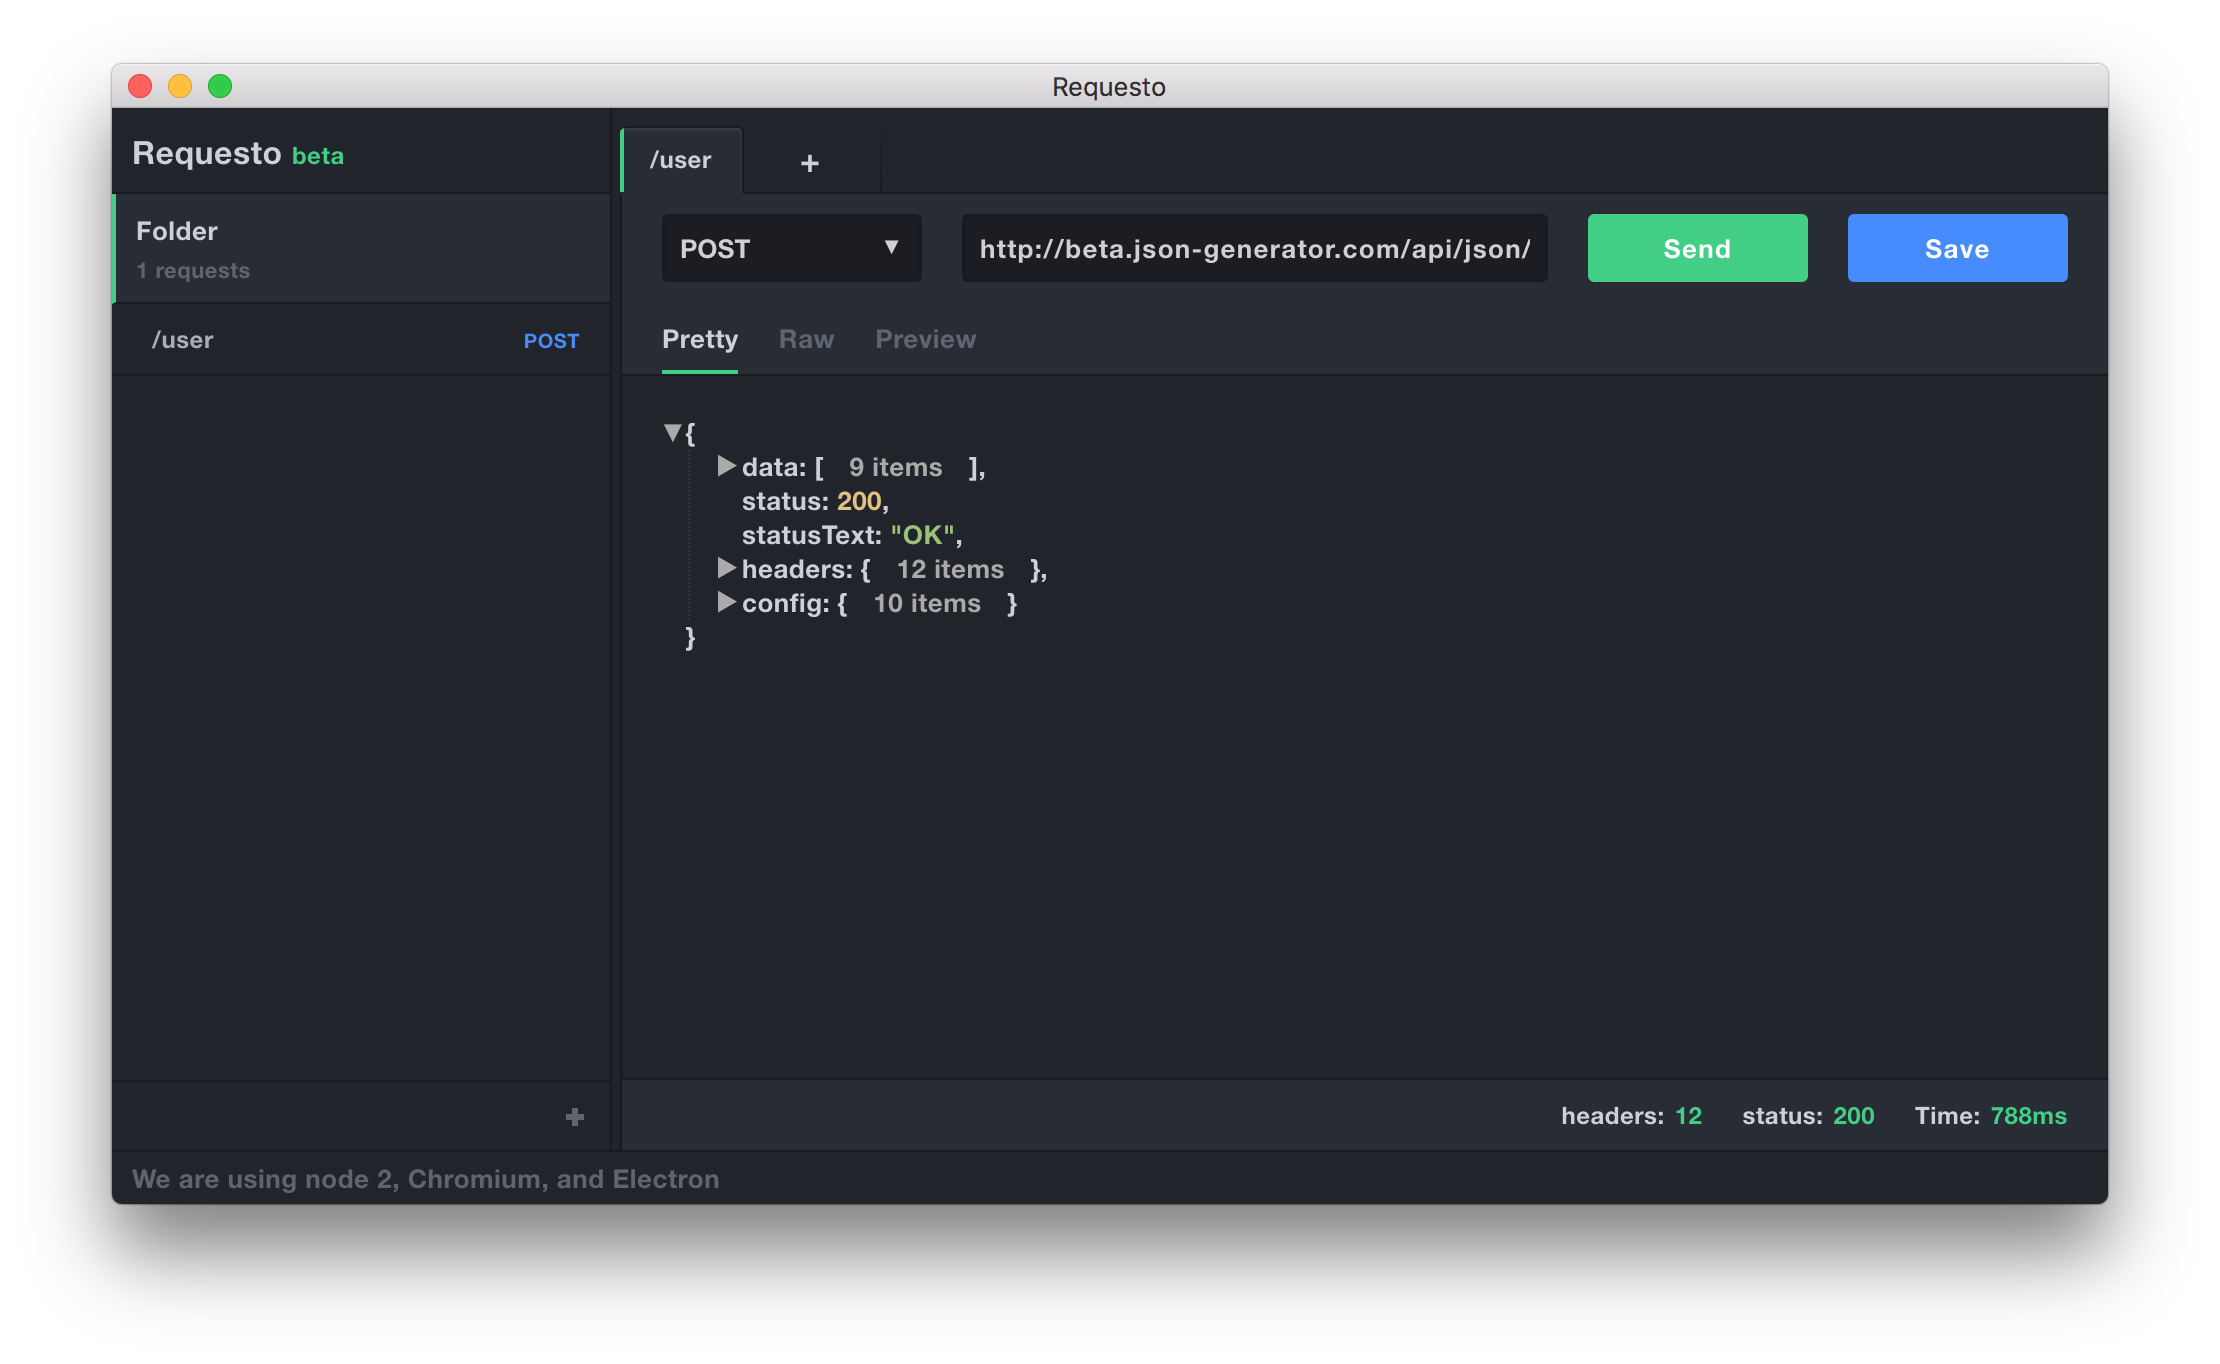
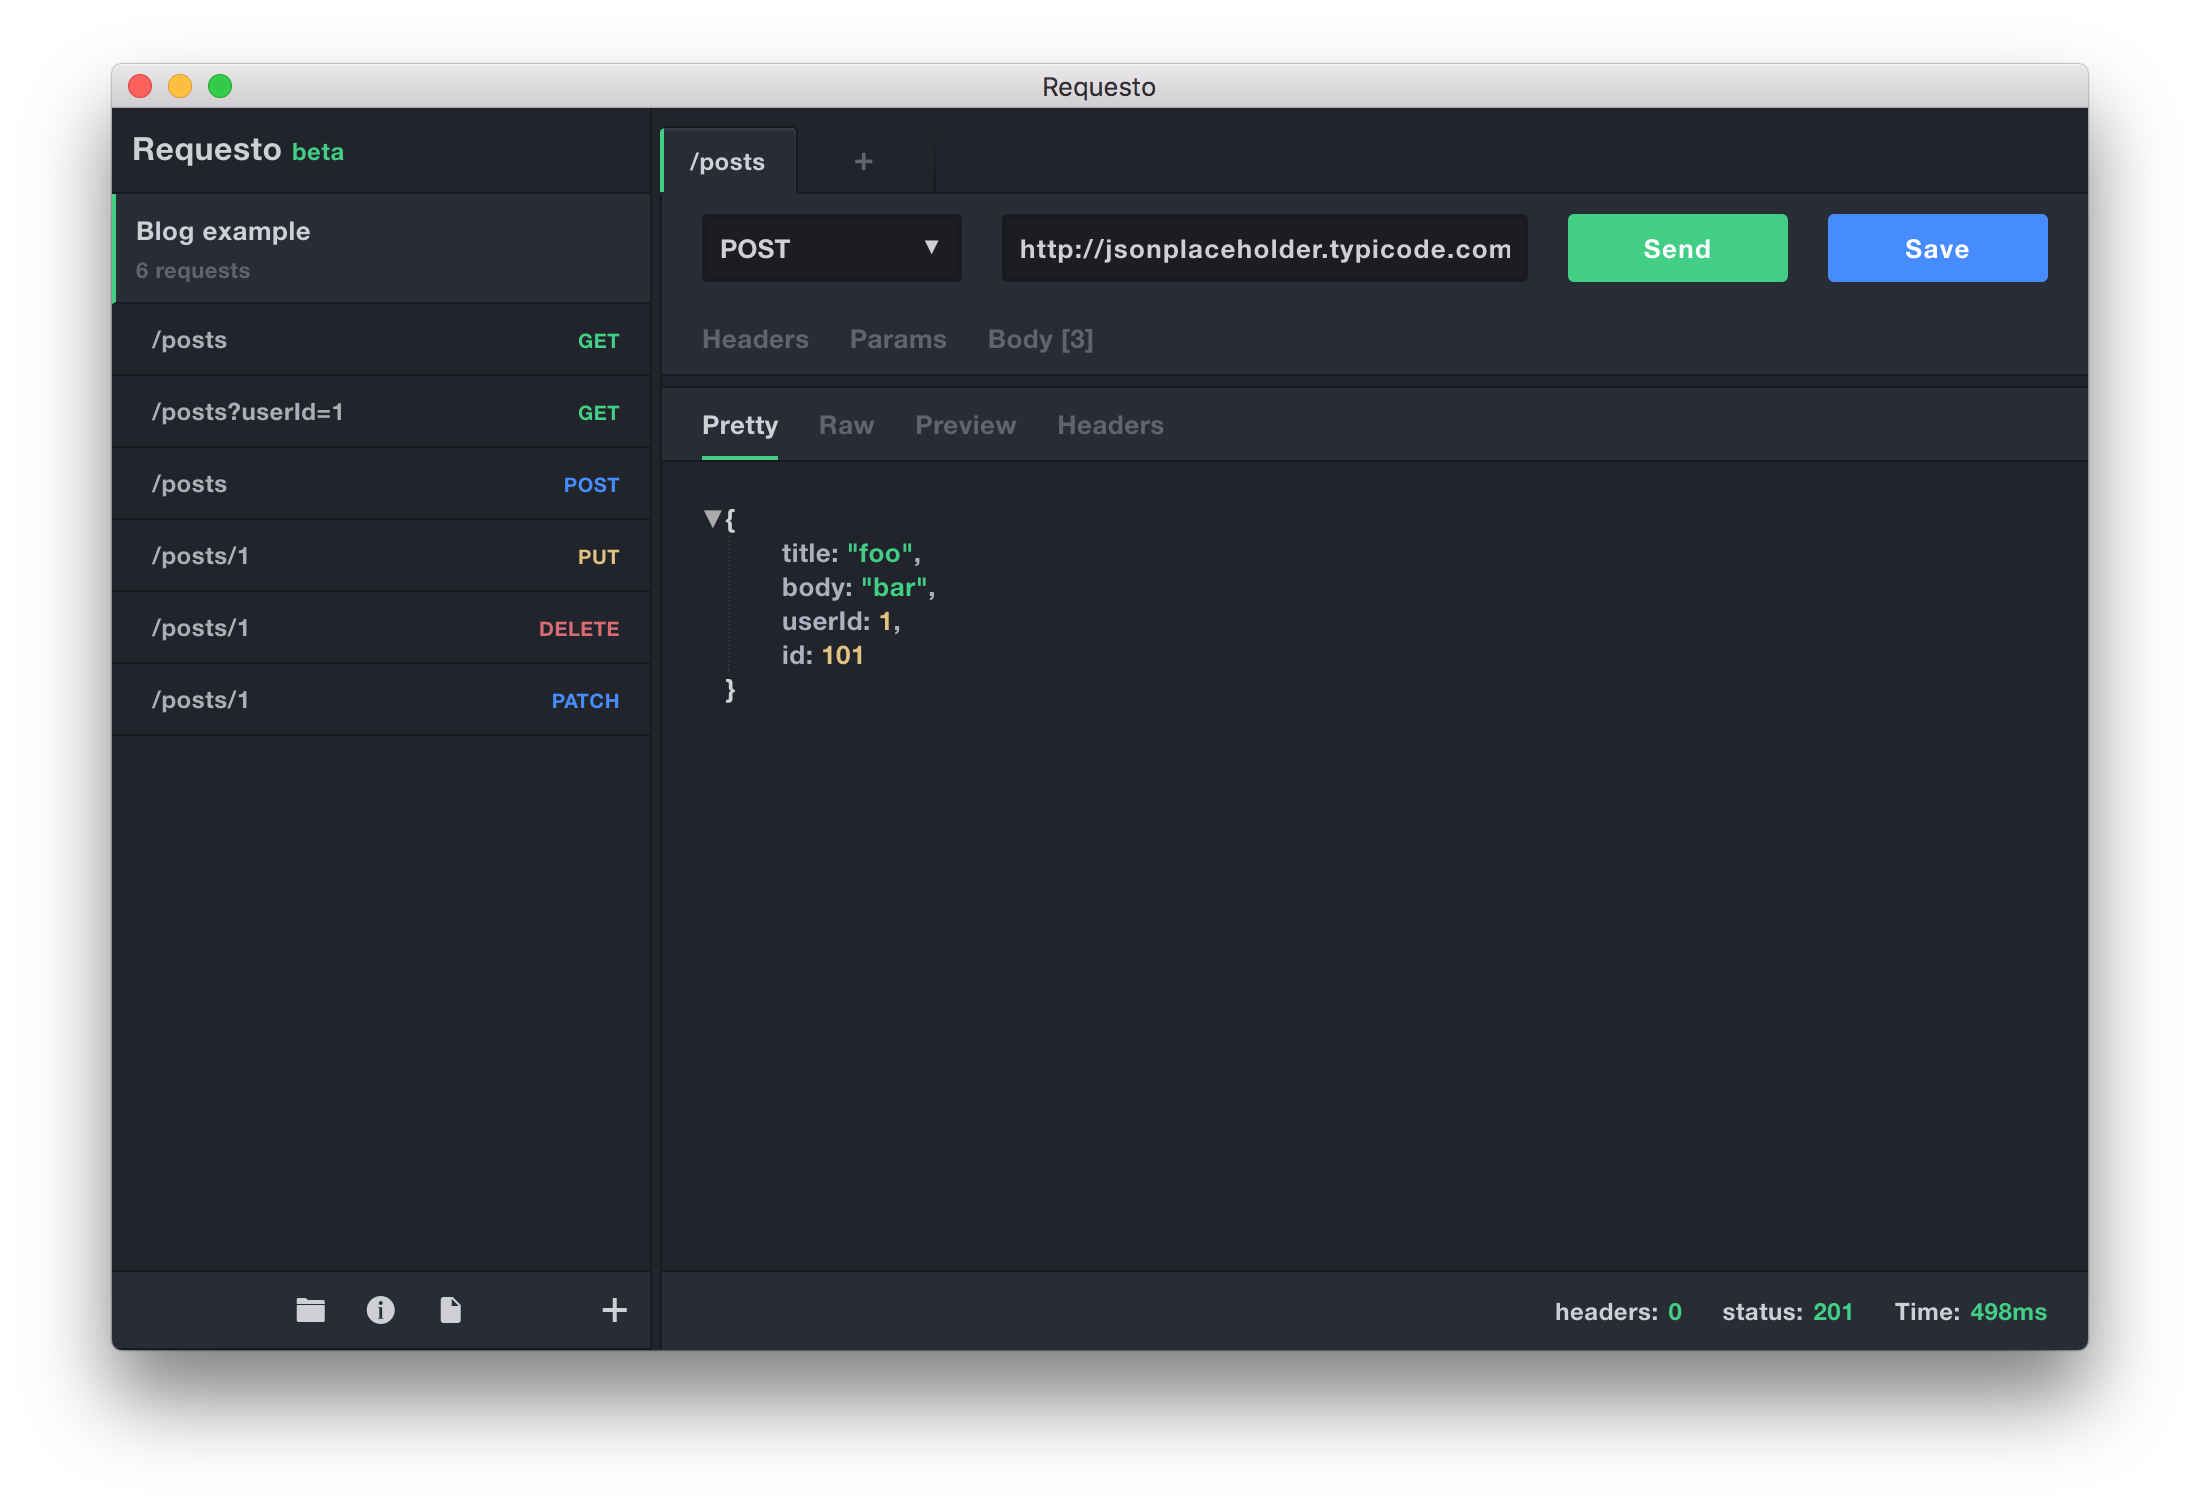
update download link and screenshot

diff --git a/index.html b/index.html
@@ -28,8 +28,8 @@
                 <div class="info">
                     <small>Beta</small>
                     <h2>The futurist open source request client.</h2>
-                    <a class="button" href="https://github.com/requesto/requesto/tree/develop">Download for Mac</a>
-                    <p class="details">Version 1.0 - For mac os</p>
+                    <a class="button" href="https://github.com/requesto/requesto/releases/download/v0.1.0/Requesto-0.1.0-mac.zip">Download for Mac</a>
+                    <p class="details">Version 0.1.0 - For mac os</p>
                 </div>
             </div>
             <div class="right"></div>
